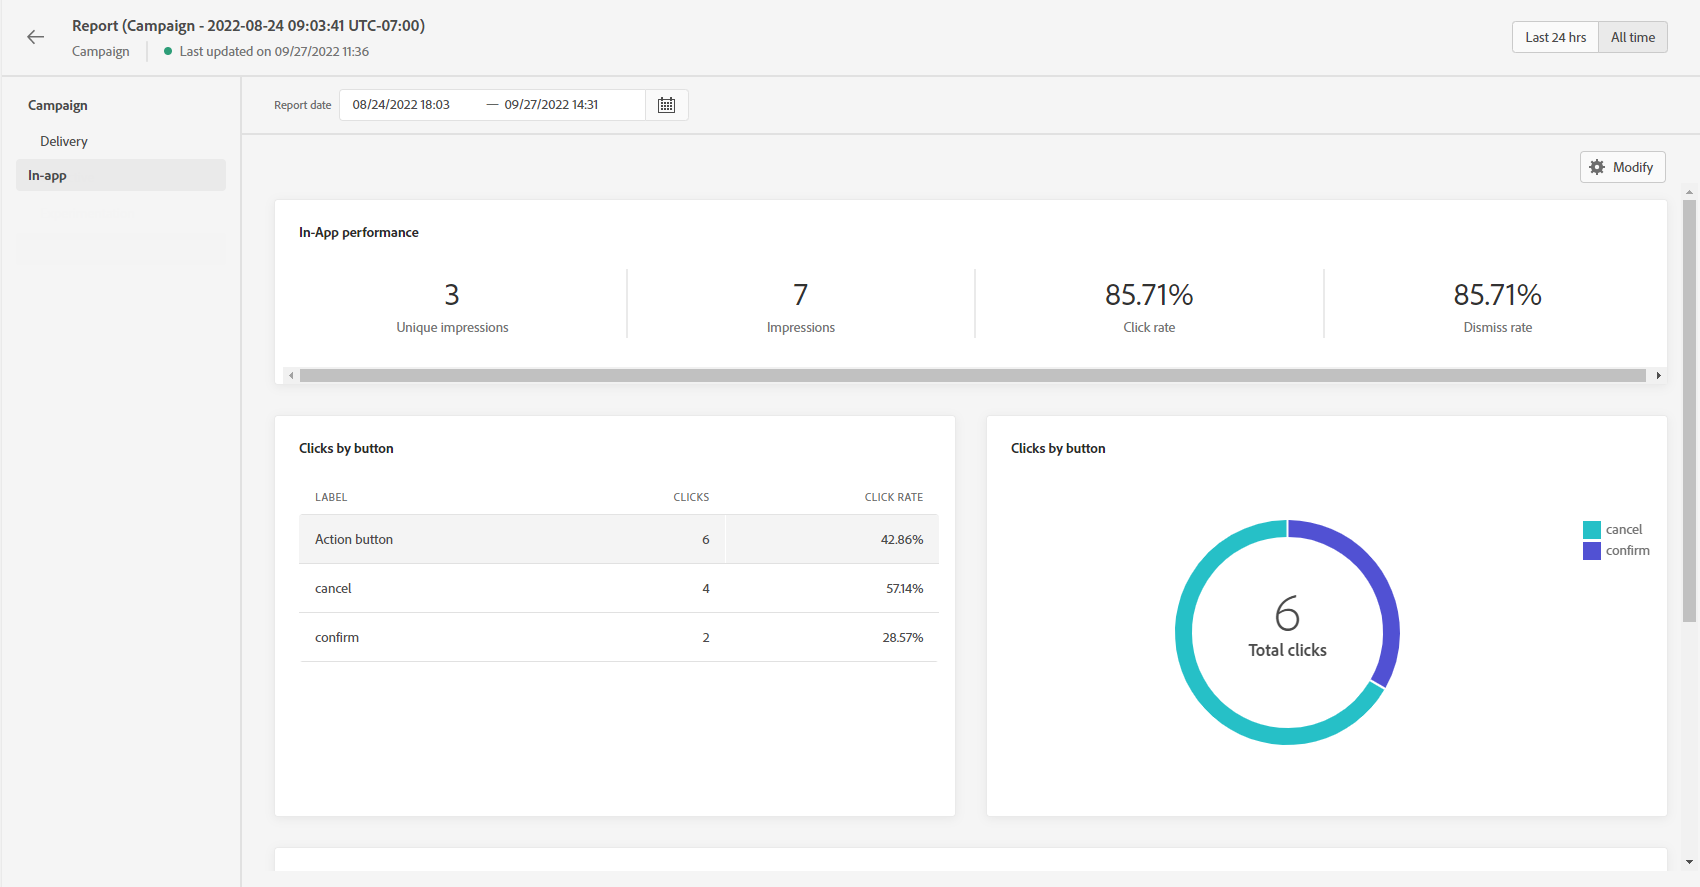
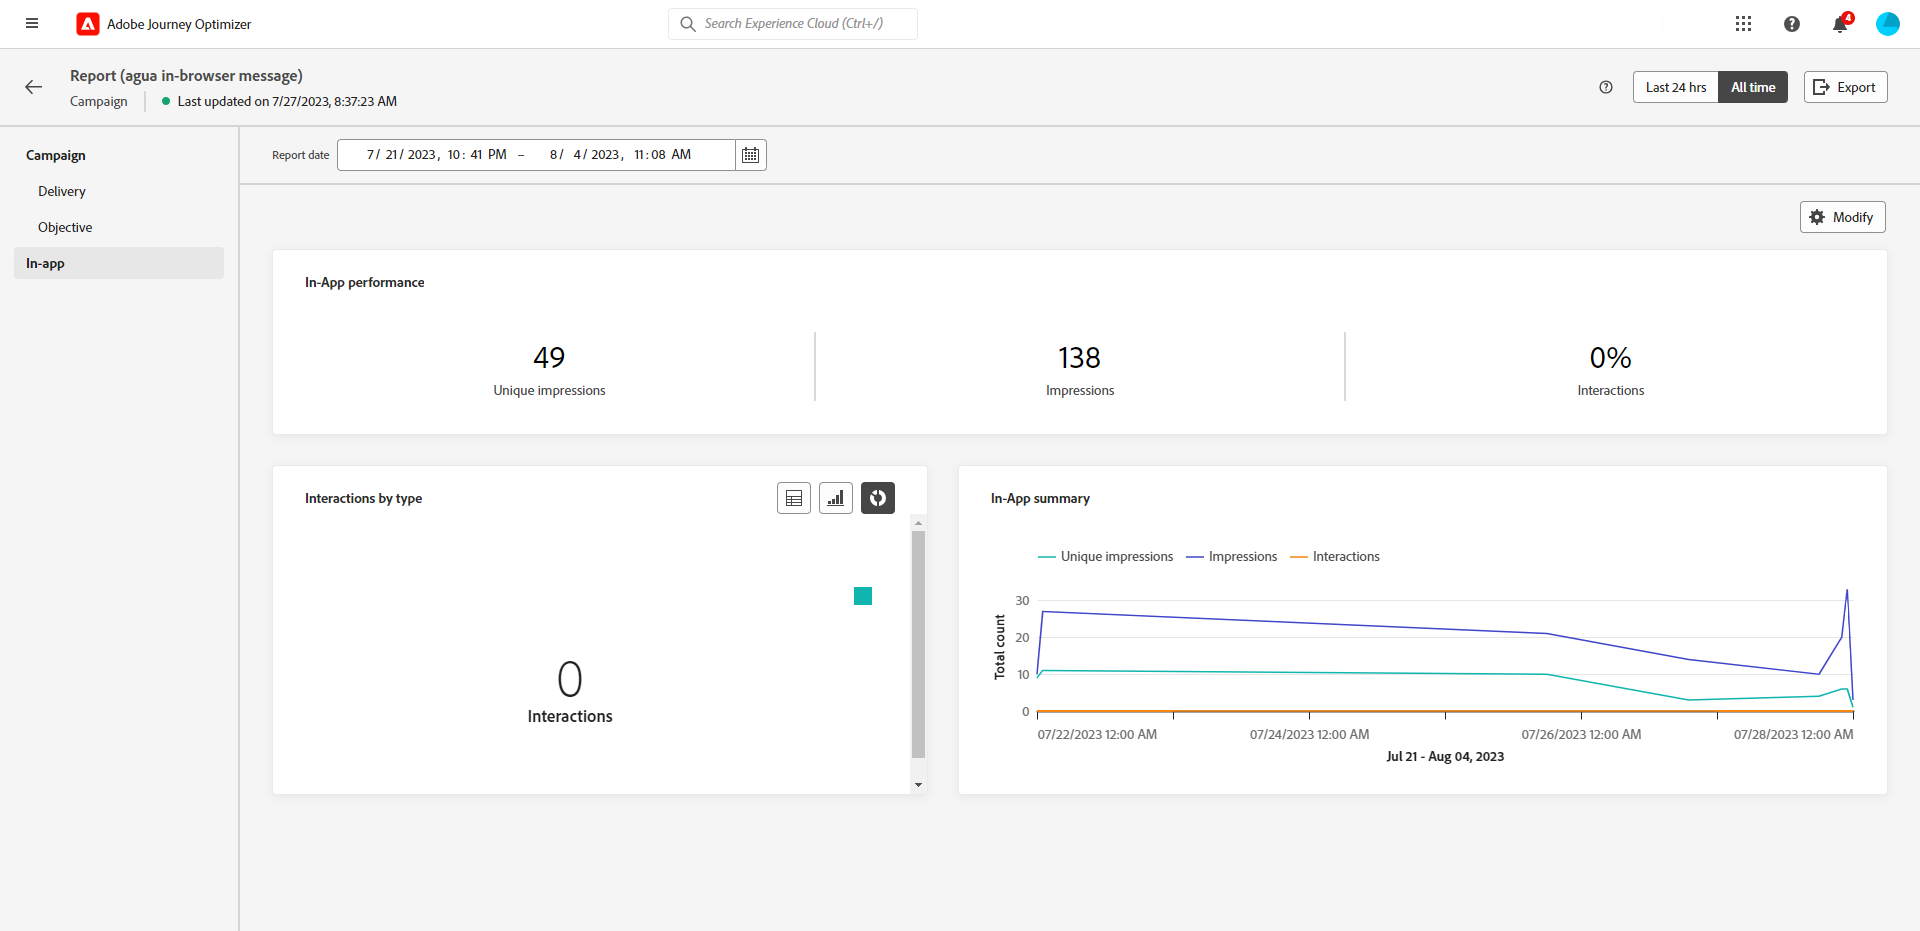
update click => interaction

diff --git a/help/using/reports/campaign-global-report.md b/help/using/reports/campaign-global-report.md
@@ -213,17 +213,11 @@ The **[!UICONTROL In-app performance]** KPIs detail the main information relativ
 
 * **[!UICONTROL Impressions]**: total number of In-app messages delivered to all users.
 
-* **[!UICONTROL Click rate]**: percentage of users who interacted with the buttons included in the In-app message compared to users who saw the message.
+* **[!UICONTROL Interactions rate]**: percentage of engagements with your In-app message. This includes any actions taken by the users, such as clicks, dismissals, or any other interactions.
 
-* **[!UICONTROL Dismiss rate]**: percentage of In-app messages that recipients dismissed.
+The **[!UICONTROL In-app summary]** graph shows the evolution of your In-app impressions and interactions for the concerned period.
 
-The **[!UICONTROL In-app summary]** graph shows the evolution of your In-app impressions for the concerned period.
-
-The **[!UICONTROL Clicks by button]** graph and table contain the available data for recipient behavior per button:
-
-* **[!UICONTROL Clicks]**: total number of recipients who interacted with the buttons included in the In-app message.
-
-* **[!UICONTROL Click rate]**: percentage of users who interacted with the buttons included in the In-app message compared to users who saw the message.
+The **[!UICONTROL Interactions by type]** graphs and table details how users interacted with your in-app message by tracking any click, dismiss, or interaction.
 +++
 
 ## Push notification tab {#push-global}

diff --git a/help/using/reports/campaign-live-report.md b/help/using/reports/campaign-live-report.md
@@ -103,15 +103,13 @@ From your Campaign **[!UICONTROL Live report]**, the **[!UICONTROL In-app]** tab
 
 The **[!UICONTROL In-app performance]** KPIs detail the main information relative to your visitors’ engagement with your In-app messages, such as:
 
-* **[!UICONTROL Unique impressions]**: number of unique users to whom the In-app message was delivered.
-
 * **[!UICONTROL Impressions]**: total number of In-app messages delivered to all users.
 
-The **[!UICONTROL In-app summary]** graph shows the evolution of your In-app impressions for the concerned period.
+* **[!UICONTROL Interactions]**:  total number of engagements with your In-app message. This includes any actions taken by the users, such as clicks, dismissals, or any other interactions.
 
-The **[!UICONTROL Clicks by button]** graph and table contain the available data for recipient behavior per button:
+The **[!UICONTROL In-app summary]** graph shows the evolution of your In-app impressions and interactions for the concerned period.
 
-* **[!UICONTROL Clicks]**: total number of recipients who interacted with the buttons included in the In-app message.
+The **[!UICONTROL Interactions by type]** graphs and table details how users interacted with your in-app message by tracking any click, dismiss, or interaction.
 
 +++
 
